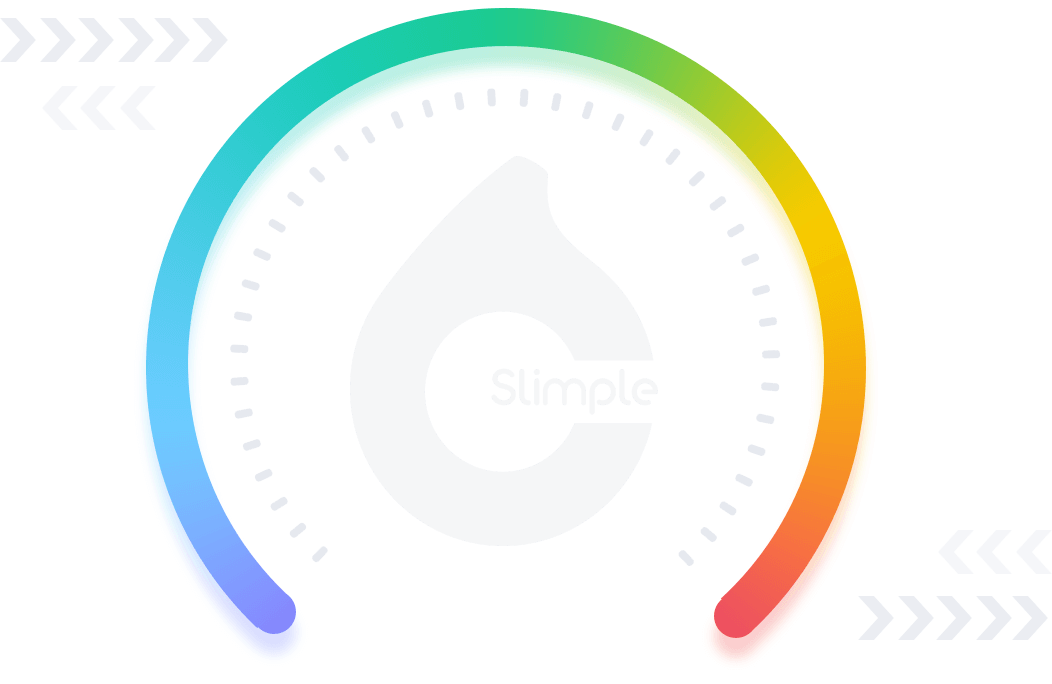
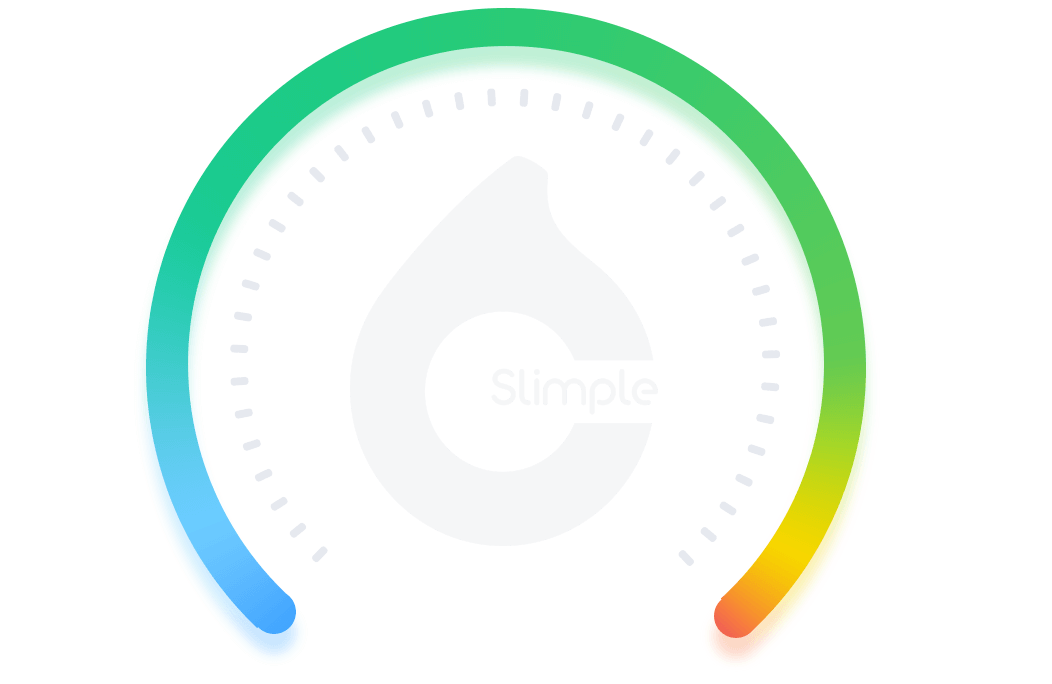
Fix：报告页面新增PPM解释及更换燃脂图

Changed region(s): [[0.5475, 0.0307, 0.8213, 0.9518], [0.1217, 0.0, 0.4867, 0.6447], [0.1521, 0.7368, 0.3042, 0.9518]]

diff --git a/pages/lowFatReport/lowFatReport.js b/pages/lowFatReport/lowFatReport.js
@@ -31,7 +31,9 @@ Page({
         }
       ]
     },
+    speed_tip: ['正常水平', '加速燃脂', '状态极佳', '快速燃脂', '急需注意', '危险状态'],
     animationData: false,
+    animation_ppm:{},
     showModalStatus: false,
     shareTip: false,
     report: {},
@@ -41,7 +43,7 @@ Page({
 
   onLoad: function (options) {
     console.log(options);
-    let sharedId = options.sharedId == 'undefined' ? null : options.sharedId;
+    let sharedId = (options.sharedId == 'undefined' || options.sharedId == 'null') ? null : options.sharedId;
     let reportId = (options.reportId == 'undefined' || options.reportId == 'null') ? null : options.reportId;
     let navBarBack = sharedId ? false:true;
     this.setData({
@@ -381,5 +383,36 @@ Page({
         }, 500);
       }
     }
+  },
+  // 显示PPM介绍
+  ppmshow(){
+    // 显示遮罩层
+    var animation = wx.createAnimation({
+      duration: 200,
+      timingFunction: "ease-in-out",
+      delay: 0
+    });
+    this.animation_ppm = animation;
+    animation.translateY(500).step();
+    this.setData({
+      animation_ppm: animation.export(),
+      ppmModalStatus: true,
+      scrollIng: true
+    });
+    setTimeout(
+      function () {
+        animation.translateY(0).step();
+        this.setData({
+          animation_ppm: animation.export()
+        });
+      }.bind(this),
+      200
+    );
+  },
+  ppmhide: function () {
+    this.setData({
+      ppmModalStatus: false,
+      scrollIng: false
+    });
   },
 })
